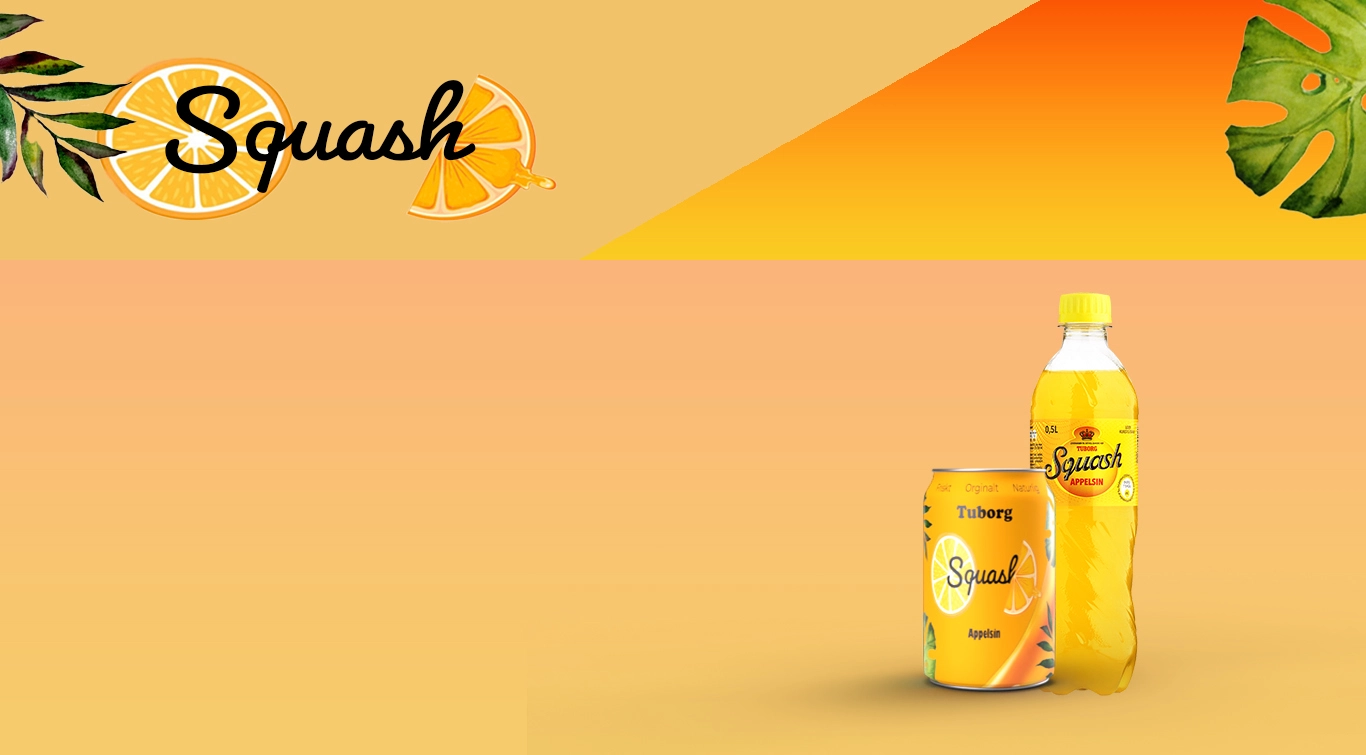
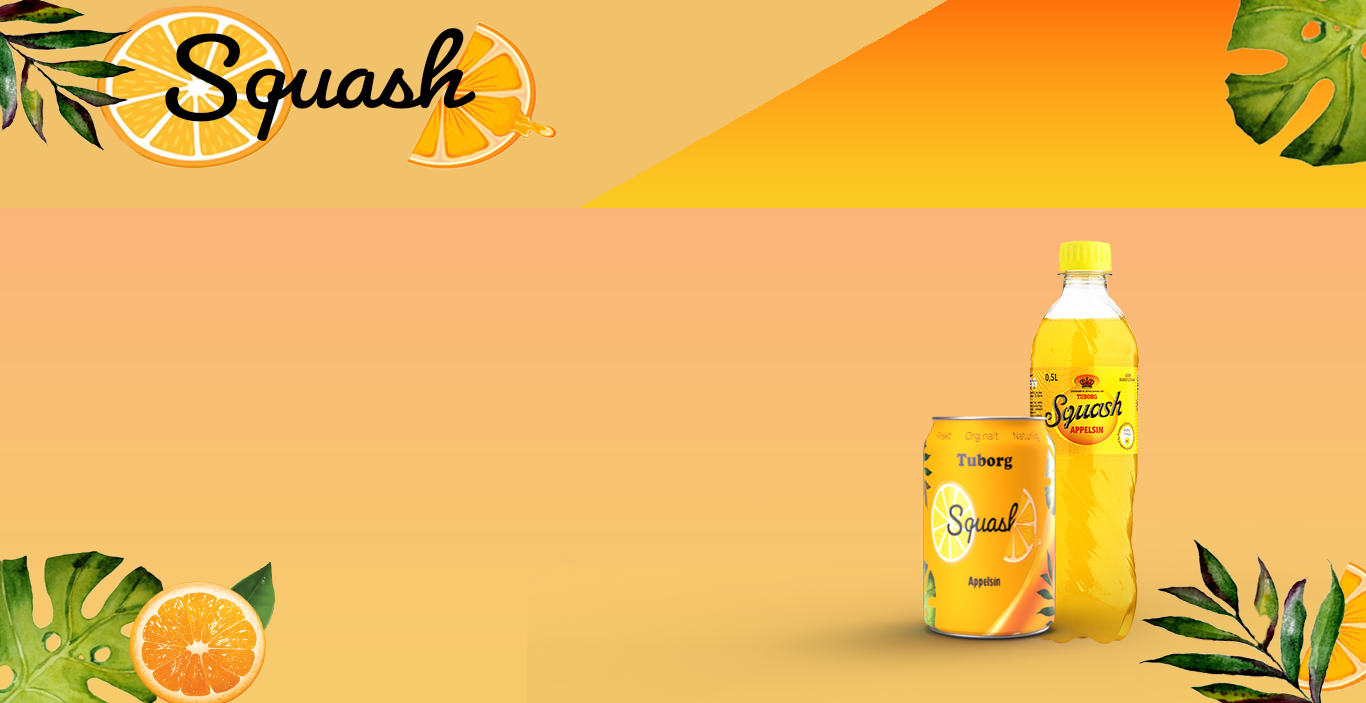
produkt side desktop

Changed region(s): [[0.4305, 0.0, 1.0, 1.0], [0.0, 0.0, 0.4305, 0.2987], [0.0, 0.7767, 0.2152, 1.0]]

diff --git a/css/style.css b/css/style.css
@@ -230,12 +230,24 @@ font-weight: bold;
 
 .section3 {
   background-image: url(/img/produktside-desktop.webp);
-  height: 90vh;
+  height: 100vh;
   background-repeat: no-repeat;
   background-size: cover;
   background-position: center;
+  background-position-y: 0px;
   width: auto;
   background-size: 100%;
+}
+.produktside-text {
+  display: flex;
+  flex-direction: column;
+  justify-content:center;
+  width: 40%;
+  height: 100%
+;
+}
+.produktside-text p {
+  font-size: 1.7rem;
 }
 
 /* Media query for mobile devices FIRST */ 
@@ -440,7 +452,7 @@ font-weight: bold;
     position: relative;
   }
 
-  .test {
+  .produktside-text {
     position: absolute;
     bottom: 5%;
     margin: 10px 10px

diff --git a/index.html b/index.html
@@ -84,7 +84,7 @@
 
     <a href="#">Se Produkter</a>
 
-    <div class="test">
+    <div class="produktside-text">
       <p class="sec3-text1">Tuborg Squash kom på markedet i 1936 og er Dannmarks, ældste sodavand, som stadig bliver
         produceret. </p>
       <p class="sec3-text2">Squash er kendt for sine underholdende reklamer, blandt andet lavet af Finn & Jacob.
